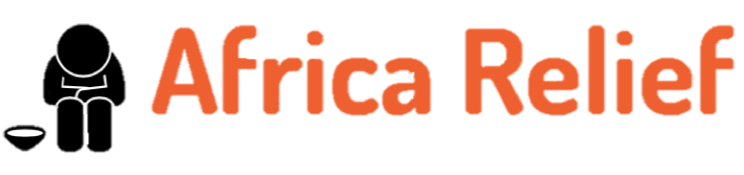
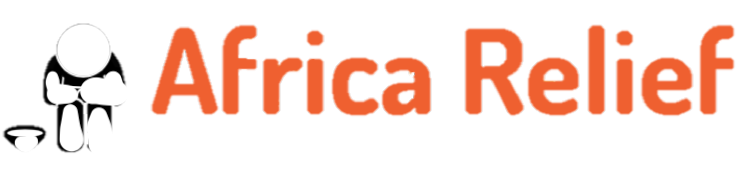
improved visuals

Changed region(s): [[0.0, 0.1143, 0.1855, 0.8857]]

diff --git a/style.css b/style.css
@@ -67,35 +67,35 @@ body {
 	background-color: white;
   position: relative;
 	z-index: 99999;
-}
+} */
 
 .logo-image img{
 	width: 90%;
-  max-width: 270px;
-	min-width: 250px;
+  max-width: 250px;
   height: auto;
-	margin-top: 0.2em;
+	margin-top: 0.5em;
+	margin-left: 20px;
 }
 
 .nav > .nav-btn {
   display: none;
 }
 
-.nav > .nav-links {
+.container6 > .topnav {
   display: inline;
   float: right;
-  font-size: 15px;
+	margin-right: 100px;
 }
 
-.nav > .nav-links > a {
+/* .nav > .nav-links > a {
   display: inline-block;
 	padding: 33px;
   text-decoration: none;
   color: black;
   border-bottom: 5px solid transparent;
-}
+} */
 
-.nav-links a.nav-logo{
+/* .nav-links a.nav-logo{
 	padding-bottom: 20px; */
 	/* background: url('donate_logo copy.png');
 background-size: contain;
@@ -114,46 +114,14 @@ width: 100px; */
   letter-spacing: 1px;
   color: #ff6411;
   border-bottom: 5px solid #ff6411;
-}
+} */
 
 .nav > #nav-check {
   display: none;
 }
 
-@media (max-width:822px) {
 
-  .nav > .nav-btn {
-    display: inline-block;
-    position: absolute;
-    right: 15px;
-    top: 10px;
-  }
-
-  .nav > .nav-btn > label {
-    display: inline-block;
-    width: 50px;
-    height: 50px;
-    padding: 32px 30px 20px 20px;
-		}
-
-  .nav > .nav-btn > label > span {
-    display: block;
-    width: 20px;
-    height: 8px;
-    border-top: 2px solid #ff6411;
-  }
-
-  .nav > #nav-check:not(:checked) ~ .nav-links {
-    height: 0px;
-  }
-  .nav > #nav-check:checked ~ .nav-links {
-    height: calc(80vh);
-    overflow-y: auto;
-  }
-
-}
-
-.nav-links .donate-logo {
+/*.nav-links .donate-logo {
 	width: 100%;
 	max-width: 60px;
 	height: auto;
@@ -180,20 +148,14 @@ width: 100px; */
 	  position: relative;
 }
 
-.container6 {
+.nav {
   position: absolute;
 	z-index: 9999;
 	right: 0;
-	margin-right: 100px;
+	width: 100%;
+	height: 105px;
 }
 
-/* .w3-sidebar {
-  position: absolute;
-	z-index: 9999;
-	right: 0;
-	width: 200px;
-	display: none;
-} */
 
 .topnav a {
 	display: inline;
@@ -220,6 +182,7 @@ width: 100px; */
 .topnav #current {
     border-bottom: 2px solid #ff6411;
     }
+
 
 .carousel-fade .carousel-inner .item {
   opacity: 0;
@@ -416,6 +379,17 @@ width: 100px; */
 
 @media screen and (max-width:1200px) {
 
+	.nav {
+		height: 98px;
+	}
+
+	.logo-image img{
+	  max-width: 200px;
+	  height: auto;
+		margin-top: 0.85em;
+		margin-left: 20px;
+	}
+
   .story {
     width:50%;
   }
@@ -460,6 +434,13 @@ width: 100px; */
 
 @media screen and (max-width:900px) {
 
+	.logo-image img{
+		max-width: 185px;
+		height: auto;
+		margin-top: 0.75em;
+		margin-left: 20px;
+	}
+
 	.topnav a {
 	  padding: 40px 10px;
 	  font-size: 16px;
@@ -483,6 +464,82 @@ width: 100px; */
 	}
 
 }
+
+@media screen and (max-width:700px) {
+
+	.logo-image img{
+		max-width: 200px;
+		height: auto;
+		margin-top: 0.2em;
+		margin-left: 20px;
+	}
+
+	.nav > .nav-btn {
+		display: inline-block;
+		position: absolute;
+		right: 15px;
+		top: 10px;
+	}
+
+	.nav > .nav-btn > label {
+		display: inline-block;
+		margin-right: 50px;
+		margin-top: 15px;
+		cursor: pointer;
+		}
+
+	.nav > .nav-btn > label > span {
+		display: block;
+		width: 18px;
+		height: 7px;
+		margin-left: 9px;
+		border-top: 3px solid white;
+		border-radius: 7px;
+	}
+
+	.nav > .nav-btn > label > #top{
+		margin-top: 9px;
+	}
+
+	.nav > #nav-check:not(:checked) ~ .nav-links {
+		height: 0px;
+	}
+	.nav > #nav-check:checked ~ .nav-links {
+		height: calc(80vh);
+		overflow-y: auto;
+	}
+
+	.container6 {
+		display: none;
+	}
+
+}
+
+.stories-button a  {
+	background: transparent;
+	color: #ff5837;
+	padding: 18px 36px 18px;
+	font-size: 1.8rem;
+	font-weight: 400;
+	border: 2px solid;
+	border-radius: 5px;
+	text-align: center;
+	overflow: hidden;
+	text-decoration: none;
+	transition: all 0.3s ease-out;
+}
+
+.stories-button a:hover {
+background: #ff5837;
+color: white;
+border-color: #ff5837;
+transition: all 0.3s ease-in;
+}
+
+.container1 {
+	margin-bottom: calc(17vh);
+}
+
 
 @media screen and (max-width:580px) {
   .story {
@@ -516,30 +573,10 @@ width: 100px; */
 	.section .text{
 		font-size: 15px;
 	}
-}
 
+	.stories-button a  {
+		padding: 16px 34px 16px;
+		font-size: 1.3rem;
+	}
 
-.stories-button a  {
-	background: transparent;
-	color: #ff5837;
-	padding: 18px 36px 18px;
-	font-size: 1.8rem;
-	font-weight: 400;
-	border: 2px solid;
-	border-radius: 5px;
-	text-align: center;
-	overflow: hidden;
-	text-decoration: none;
-	transition: all 0.3s ease-out;
-}
-
-.stories-button a:hover {
-background: #ff5837;
-color: white;
-border-color: #ff5837;
-transition: all 0.3s ease-in;
-}
-
-.container1 {
-	margin-bottom: calc(17vh);
 }

diff --git a/index.html b/index.html
@@ -33,9 +33,61 @@
       </div>
     </div> -->
 
+    <div class="nav">
+      <a class="navbar-brand" href="#">
+         <div class="logo-image">
+            <img src="Picture1.png" class="img-fluid">
+         </div>
+       </a>
+      <input type="checkbox" id="nav-check">
+      <div class="nav-btn">
+        <label for="nav-check">
+          <span id="top"></span>
+          <span></span>
+          <span></span>
+        </label>
+      </div>
+
+    <!-- <div class="container6">
+      <div class="topnav">
+            <a href="#home">
+              <span id="current">Home</span>
+            </a>
+          <a href="aboutUs.html">
+            <span>About Us</span>
+          </a>
+          <a href="contactUs.html">
+            <span>Contact Us</span>
+          </a>
+          <a href="donate.html">
+            <span>Donate</span>
+          </a>
+      </div>
+    </div>
+  </div> -->
+
+  <div class="container6">
+    <div class="topnav">
+          <a href="#home">
+            <span id="current">Home</span>
+          </a>
+        <a href="aboutUs.html">
+          <span>About Us</span>
+        </a>
+        <a href="contactUs.html">
+          <span>Contact Us</span>
+        </a>
+        <a href="donate.html">
+          <span>Donate</span>
+        </a>
+    </div>
+  </div>
+</div>
+
+
     <div id="carouselFade" class="carousel slide carousel-fade" data-ride="carousel">
 
-      <div class="container6">
+      <!-- <div class="container6">
         <div class="topnav">
               <a href="#home">
                 <span id="current">Home</span>
@@ -50,13 +102,6 @@
               <span>Donate</span>
             </a>
         </div>
-      </div>
-
-      <!-- <div class="w3-sidebar w3-bar-block w3-collapse w3-card w3-animate-right" style="width:200px;right:0"; id="mySidebar">
-        <button class="w3-bar-item w3-button w3-large w3-hide-large" onclick="w3_close()">Close &times;</button>
-        <a href="#" class="w3-bar-item w3-button">Link 1</a>
-        <a href="#" class="w3-bar-item w3-button">Link 2</a>
-        <a href="#" class="w3-bar-item w3-button">Link 3</a>
       </div> -->
 
       <div class="carousel-inner" role="listbox">

diff --git a/main.js b/main.js
@@ -1,1 +1,9 @@
 $('#carouselFade').carousel();
+
+function openNav() {
+  document.getElementById("myNav").style.width = "100%";
+}
+
+function closeNav() {
+  document.getElementById("myNav").style.width = "0%";
+}
